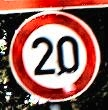
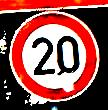
clahe before contrast

diff --git a/contrast.py b/contrast.py
@@ -41,8 +41,11 @@ def clahe (image_path):
 
 
 for filepath in glob.iglob('data/circle/*.jpg'):
-    result = change_contrast(filepath, 100)
-    result.save(filepath)
+
     result = clahe(filepath)
     cv2.imwrite(filepath, result)
+
+    result = change_contrast(filepath, 180)
+    result.save(filepath)
+
 print('done')
